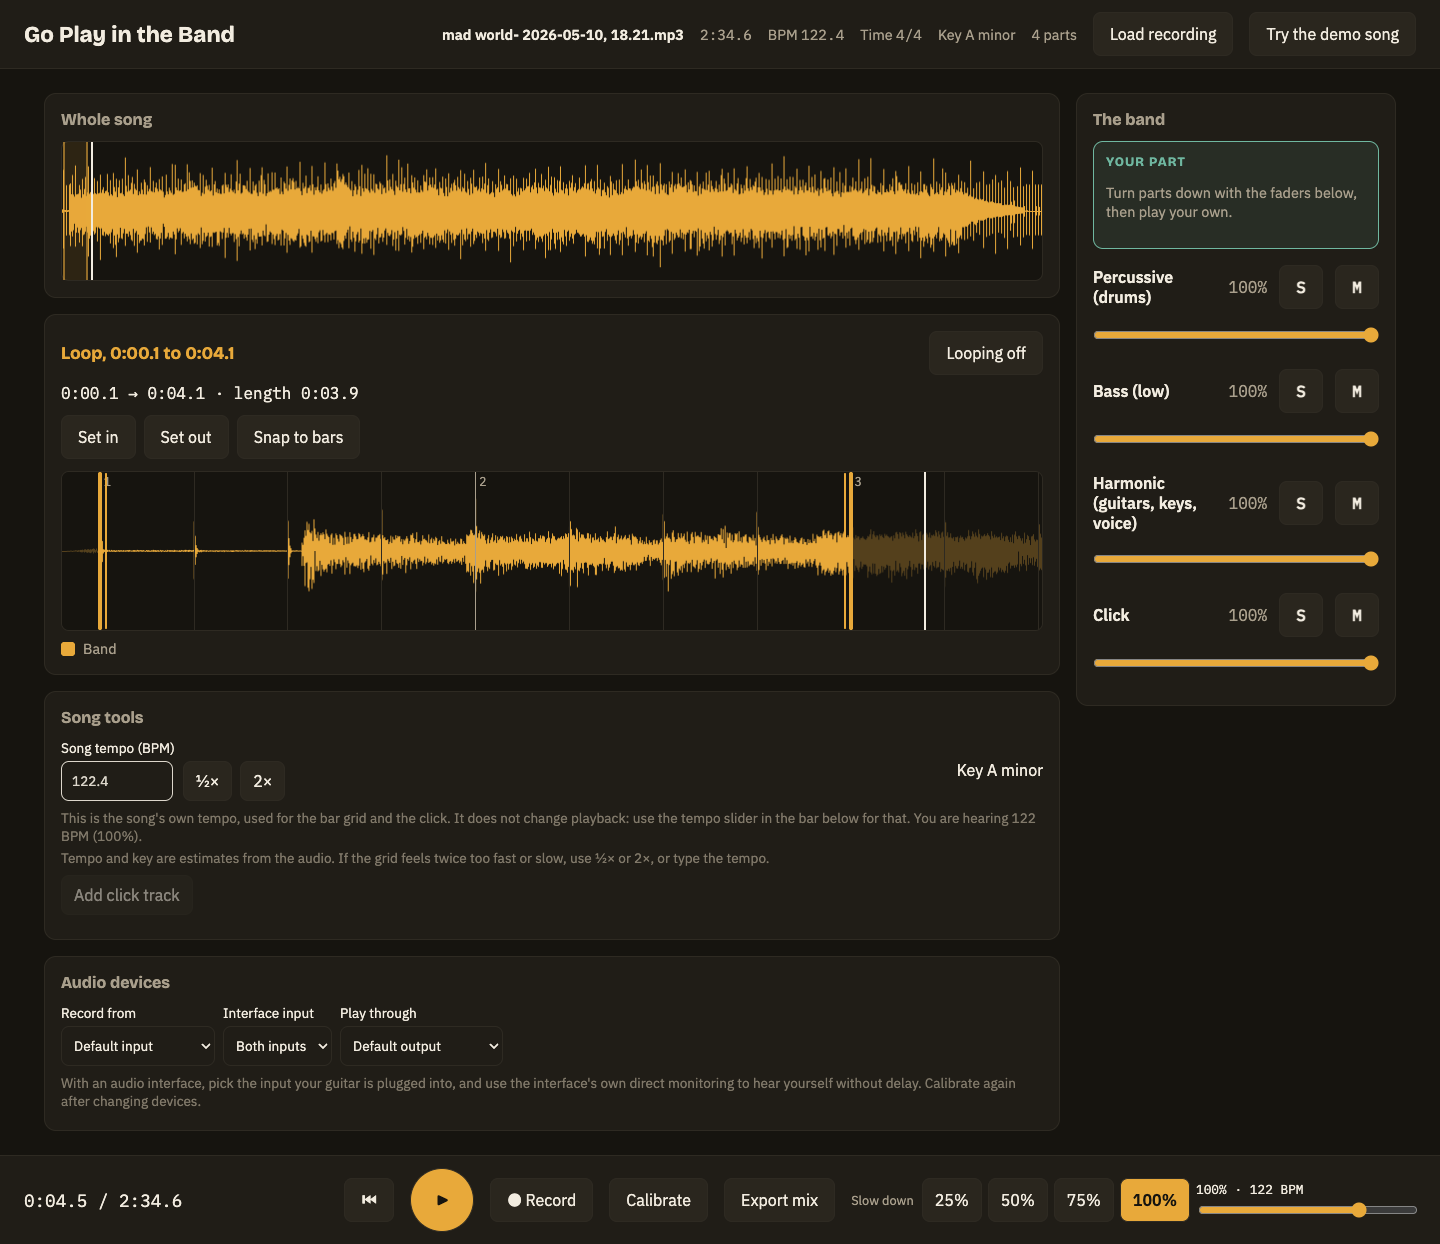
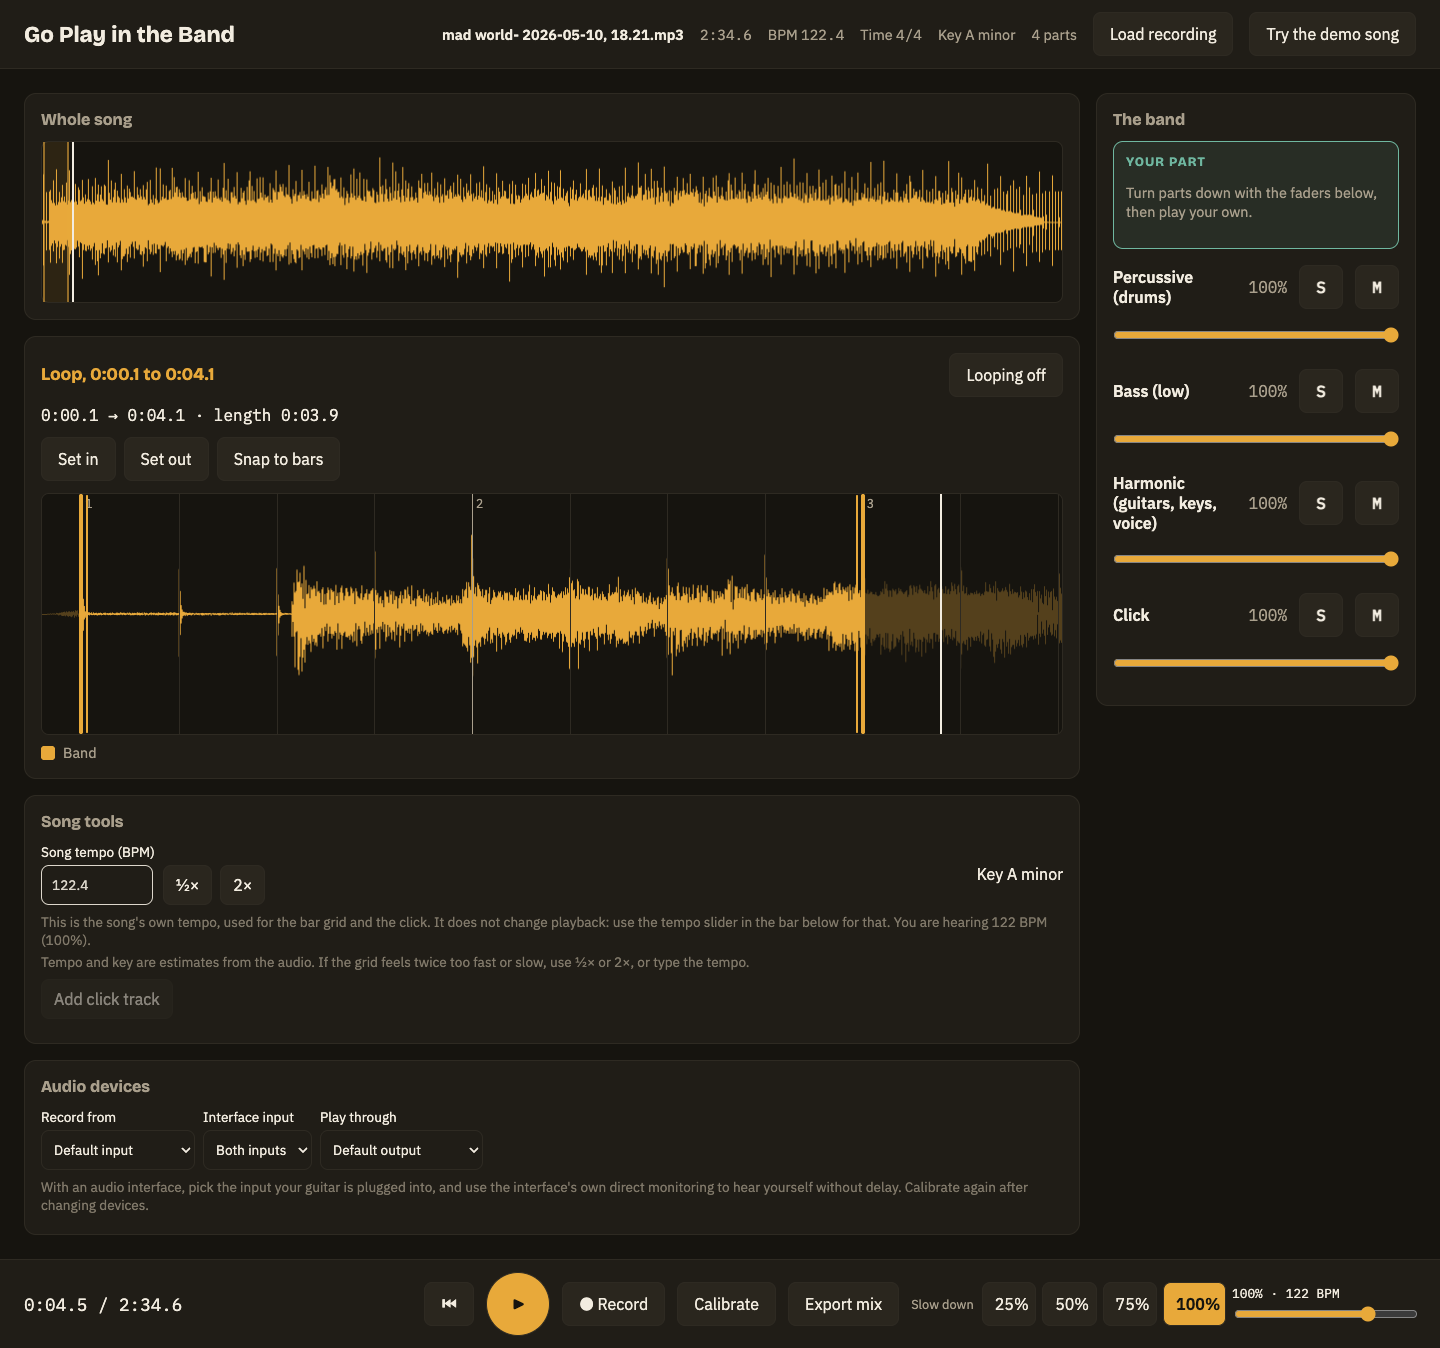
Scale to 27-inch monitors: wider page, aligned header and transport, pinned transport bar

diff --git a/web/src/theme/app.css b/web/src/theme/app.css
@@ -1,4 +1,6 @@
 * { box-sizing: border-box; }
+/* Keep keyboard focus from landing underneath the pinned transport bar. */
+html { scroll-padding-bottom: 160px; }
 body { margin: 0; background: var(--bg); color: var(--text); font-family: var(--font-ui); }
 h1, h2 { font-family: var(--font-display); margin: 0; }
 button {
@@ -14,27 +16,29 @@ button:disabled { opacity: 0.5; cursor: not-allowed; }
 .app { display: grid; grid-template-rows: auto 1fr auto; min-height: 100vh; }
 .header {
   display: flex; flex-wrap: wrap; align-items: center; gap: 16px;
-  padding: 12px 24px; border-bottom: 1px solid var(--border); background: var(--panel);
+  padding: 12px var(--gutter); border-bottom: 1px solid var(--border); background: var(--panel);
 }
 .header h1 { font-size: 1.4rem; margin-right: auto; }
 .filecard { display: flex; flex-wrap: wrap; gap: 4px 16px; color: var(--text-2); font-size: 0.9rem; }
 .filecard strong { color: var(--text); font-weight: 600; }
-.main { padding: 24px; max-width: 1400px; width: 100%; margin: 0 auto; }
+.main { padding: 24px; max-width: var(--page); width: 100%; margin: 0 auto; }
 .panel { background: var(--panel); border: 1px solid var(--border); border-radius: 12px; padding: 16px; }
 .panel h2 { font-size: 1rem; color: var(--text-2); margin-bottom: 12px; }
 .empty { color: var(--text-2); }
 .error { color: var(--red-2); margin-top: 12px; }
 
 .wave {
-  position: relative; height: 140px; background: var(--bg);
+  position: relative; height: clamp(140px, 12vh, 200px); background: var(--bg);
   border: 1px solid var(--border); border-radius: 8px; cursor: pointer; touch-action: none;
 }
 .wave canvas { position: absolute; inset: 0; width: 100%; height: 100%; }
 .playhead { position: absolute; top: 0; bottom: 0; width: 2px; background: var(--text); pointer-events: none; }
 
 .transport {
-  display: flex; align-items: center; gap: 16px; padding: 12px 24px;
+  display: flex; flex-wrap: wrap; align-items: center; gap: 8px 12px; padding: 12px var(--gutter);
   border-top: 1px solid var(--border); background: var(--panel);
+  /* Play and Record stay in reach however long the page is. */
+  position: sticky; bottom: 0; z-index: 2; white-space: nowrap;
 }
 .transport .time { font-family: var(--font-mono); font-size: 1.1rem; margin-right: auto; }
 .transport .play { min-width: 64px; min-height: 64px; border-radius: 50%; background: var(--amber); color: #16140f; font-weight: 600; }
@@ -52,7 +56,7 @@ button:disabled { opacity: 0.5; cursor: not-allowed; }
 .loop-times { margin: 0 0 12px; color: var(--text); }
 .loop-actions { display: flex; flex-wrap: wrap; align-items: center; gap: 8px; margin-bottom: 12px; }
 .hint { color: var(--text-2); font-size: 0.9rem; }
-.zoom { position: relative; height: 160px; background: var(--bg); border: 1px solid var(--border); border-radius: 8px; touch-action: none; overflow: hidden; }
+.zoom { position: relative; height: clamp(160px, 18vh, 300px); background: var(--bg); border: 1px solid var(--border); border-radius: 8px; touch-action: none; overflow: hidden; }
 .zoom canvas { position: absolute; inset: 0; width: 100%; height: 100%; }
 .zoom .pad { position: absolute; top: 0; bottom: 0; background: rgba(22, 20, 15, 0.7); pointer-events: none; }
 .zoom .gl { position: absolute; top: 0; bottom: 0; width: 1px; background: var(--border); pointer-events: none; }
@@ -67,6 +71,9 @@ button:disabled { opacity: 0.5; cursor: not-allowed; }
 .col { min-width: 0; }
 @media (min-width: 1280px) {
   .layout { grid-template-columns: minmax(0, 1fr) 320px; }
+}
+@media (min-width: 1920px) {
+  .layout { grid-template-columns: minmax(0, 1fr) 380px; gap: 24px; }
 }
 .band-panel { margin-top: 16px; }
 @media (min-width: 1280px) { .band-panel { margin-top: 0; } }
@@ -104,7 +111,6 @@ button:disabled { opacity: 0.5; cursor: not-allowed; }
 .tools { margin-top: 16px; }
 .tools-row select { min-height: 40px; max-width: 16rem; padding: 0 8px; background: var(--panel); color: inherit; border: 1px solid var(--border); border-radius: 8px; font: inherit; }
 .split-card .presets { display: flex; gap: 8px; flex-wrap: wrap; }
-.tempo-slider { display: grid; gap: 2px; font-size: 0.8rem; min-width: 150px; }
+.tempo-slider { display: grid; gap: 2px; font-size: 0.8rem; min-width: 160px; flex: 0 1 220px; }
 .tempo-slider input { width: 100%; accent-color: var(--amber); }
 .speeds-label { font-size: 0.8rem; color: var(--text-2); margin-right: 2px; }
-.tempo-slider { min-width: 220px; }

diff --git a/web/src/theme/tokens.css b/web/src/theme/tokens.css
@@ -12,5 +12,8 @@
   --font-display: "Bricolage Grotesque Variable", system-ui, sans-serif;
   --font-ui: "IBM Plex Sans", system-ui, sans-serif;
   --font-mono: "IBM Plex Mono", ui-monospace, monospace;
+  /* Widest the page gets. The header and transport bar line up with it on big screens. */
+  --page: 1800px;
+  --gutter: max(24px, calc((100% - var(--page)) / 2 + 24px));
   color-scheme: dark;
 }

diff --git a/CHANGELOG.md b/CHANGELOG.md
@@ -31,3 +31,4 @@ This project is a thought experiment and proof of concept. Nothing here is a rel
 - Guitar isolation works end to end through Demucs (`htdemucs_6s`): `scripts/install.sh --stems`, `scripts/run-server.sh`, then Instruments. Uses the Apple GPU when there is one (30 s of audio in about 4 s). Silent stems are dropped. Server fixes: the cache never hit, the upload lost its extension, separation blocked the server, and the hosted demo and local app were not allowed to call it.
 - Fix: a recording that separates to guitar only showed a flat waveform and no tempo (the "band" layer was empty). The header no longer calls a lone guitar part a "full mix".
 - Screenshots 01 to 07 retaken: they still showed the old 50/75/90/100% buttons and no solo, song tools or audio devices. `scripts/screenshots.mjs` retakes them in headless Chrome, so they are one command to refresh.
+- Big and small screens. The page was a 1400 px island on a 27-inch monitor, with the title and the transport controls out in the far corners; it now grows to 1800 px and the header and transport line up with it. The waveforms get taller with the window. The transport bar is pinned to the bottom, so Play and Record are always in reach (before, they were below the fold on any window shorter than the page), and it wraps in whole groups instead of mid-label at 1280 px. All nine screenshots retaken; `scripts/screenshots.mjs` now covers 08 and 09.

diff --git a/docs/STATUS.md b/docs/STATUS.md
@@ -8,6 +8,7 @@ A thought experiment and proof of concept. Expect rough edges.
 - Unit tests: web (Vitest), Rust (`dsp-core`, `desktop`), server (pytest). CI runs on macOS and Windows.
 - Headless Chrome: the demo and real four-minute recordings load; speed, Record and overdub (fake
   microphone), song tools, quick split and the local app all run with no console errors.
+- Layout measured in headless Chrome from 820 px wide up to 27-inch sizes (2560x1440 at 1x and 2x, 3840x2160): no overflow, header, content and transport line up, Play is always on screen, waveforms are drawn at the screen's pixel density.
 
 ## Not checked
 
@@ -15,6 +16,7 @@ A thought experiment and proof of concept. Expect rough edges.
 - No real microphone or USB interface (device picking was run against Chrome's fake devices): whether overdubs line up in time, and how good calibration is.
 - Tempo can be out by a factor of two; the first beat may not be beat one; 4/4 is assumed.
 - Demucs was run on one real recording (solo guitar: 98% landed in the guitar stem, the stems add back up to within -34 dB). How cleanly it lifts a guitar out of a full band has not been heard.
+- No real 27-inch monitor: the big-screen layout was measured in an emulated window, not looked at on hardware.
 - The Windows app is built in CI only, never run by hand. The Mac app has no icon and is not notarised.
 
 ## Known limits
